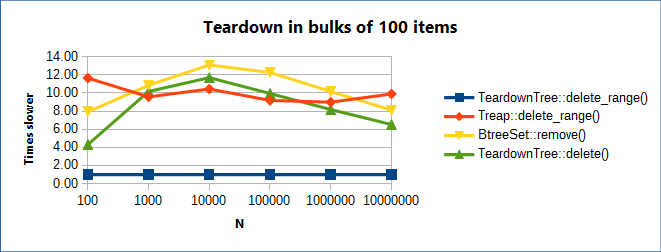
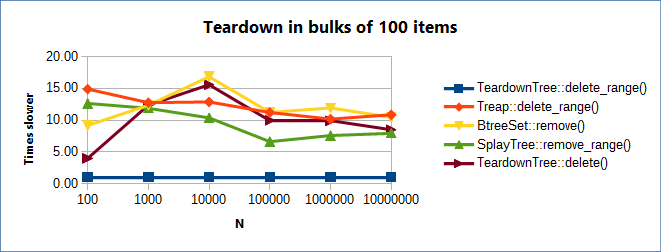
cargo workspaces; bump version to 0.5.0; updated benchmark spreadsheet and graphs

diff --git a/benchmarks/benchmarks.md b/benchmarks/benchmarks.md
@@ -1,12 +1,12 @@
-*Benchmarks last updated for v0.4.7.*
+*Benchmarks last updated for v0.5.0.*
 
-![TeardownTree vs other data structures: full refill/teardown cycle in bulks of 100](/benchmarks/full_refill_teardown_100.png?raw=true "full cycle/100")
+![TeardownTree vs other data structures: full refill/teardown cycle in bulks of 100](full_refill_teardown_100.png?raw=true "full cycle/100")
 
-![TeardownTree vs other data structures: full refill/teardown cycle in bulks of 1000](/benchmarks/full_refill_teardown_1000.png?raw=true "full cycle/1000")
+![TeardownTree vs other data structures: full refill/teardown cycle in bulks of 1000](full_refill_teardown_1000.png?raw=true "full cycle/1000")
 
-![TeardownTree vs other data structures: teardown in bulks of 100](/benchmarks/teardown_100.png?raw=true "teardown/100")
+![TeardownTree vs other data structures: teardown in bulks of 100](teardown_100.png?raw=true "teardown/100")
 
-![TeardownTree vs other data structures: teardown in bulks of 1000](/benchmarks/teardown_1000.png?raw=true "teardown/1000")
+![TeardownTree vs other data structures: teardown in bulks of 1000](teardown_1000.png?raw=true "teardown/1000")
 
 [Raw data][1].
 

diff --git a/README.rst b/README.rst
@@ -49,7 +49,7 @@ As a library
 | Add to your Cargo.toml:
 |
 |     ``[dependencies]``
-|     ``teardown_tree = "0.4.8"``
+|     ``teardown_tree = "0.5.0"``
 
 
 
